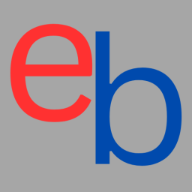
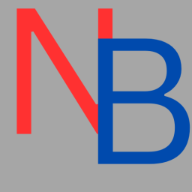
update name, update more things

Changed region(s): [[0.0312, 0.0312, 1.0, 0.875]]

diff --git a/src/Components/Footer/Footer.jsx b/src/Components/Footer/Footer.jsx
@@ -14,7 +14,7 @@ const Footer = () => {
                     <div className="col-12 col-md-6 col-lg-4">
                         <h5 className="mb-3">
                             <Link to="/" className="text-decoration-none text-light">
-                                Umair Store
+                                Need Buy Store
                             </Link>
                         </h5>
                         <p className="text-white-50 small">
@@ -48,7 +48,7 @@ const Footer = () => {
             {/* Bottom Bar */}
             <div className="footer-bottom text-center py-3">
                 <small className="text-white-50">
-                    © {year} Umair Store. All Rights Reserved.
+                    <p>Delevolp by Umair Saeed (DevusPk) Contact: <a href="mailto:umairdevus@gmail.com" className="text-decoration-none">umairdevus@gmail.com</a>.</p>   © {year} All Rights Reserved.
                 </small>
             </div>
         </footer>

diff --git a/src/pages/Frontend/Home/index.jsx b/src/pages/Frontend/Home/index.jsx
@@ -49,7 +49,7 @@ const Home = () => {
                     <div className="container">
                         <div className="row align-items-center">
                             <div className="col-lg-6 text-white">
-                                <h1 className="display-4 fw-bold">Welcome to Easy Store</h1>
+                                <h1 className="display-4 fw-bold">Welcome to Need Buy Store</h1>
                                 <p className="lead">Your one-stop shop for the best tech gadgets.</p>
                                 {/* <a href="#products" className="btn btn-light btn-lg rounded-0 text-dark fw-bold px-4">Shop Now</a> */}
                             </div>

diff --git a/src/Components/ProductCard.jsx b/src/Components/ProductCard.jsx
@@ -64,7 +64,7 @@ const ProductCard = ({ product }) => {
                                 {product.productName}
                             </h6>
 
-                            <p className="text-muted mb-1 d-none d-md-block product-description">
+                            <p onClick={() => navigate(`/product/${product.id}`)} className="text-muted mb-1 d-none d-md-block product-description text-truncate" style={{ maxWidth: "100%" }}>
                                 {product.descriptions}
                             </p>
 

diff --git a/src/Components/Header/Navbar.jsx b/src/Components/Header/Navbar.jsx
@@ -35,7 +35,7 @@ const Navbar = () => {
 
             <nav className="navbar navbar-expand-lg bg-light navbar-light py-3">
                 <div className="container">
-                    <Link className="navbar-brand p-2 px-3" to="/">Easy Buy</Link>
+                    <Link className="navbar-brand p-2 px-3" to="/">Need Buy</Link>
                     <button
                         className="navbar-toggler"
                         type="button"

diff --git a/index.html b/index.html
@@ -14,7 +14,7 @@
   <link rel="icon" type="image/png" sizes="32x32" href="/favicon-32x32.png">
   <link rel="icon" type="image/png" sizes="16x16" href="/favicon-16x16.png">
   <link rel="manifest" href="/site.webmanifest">
-  <title>Easy Buy</title>
+  <title>Need Buy</title>
 </head>
 
 <body>
